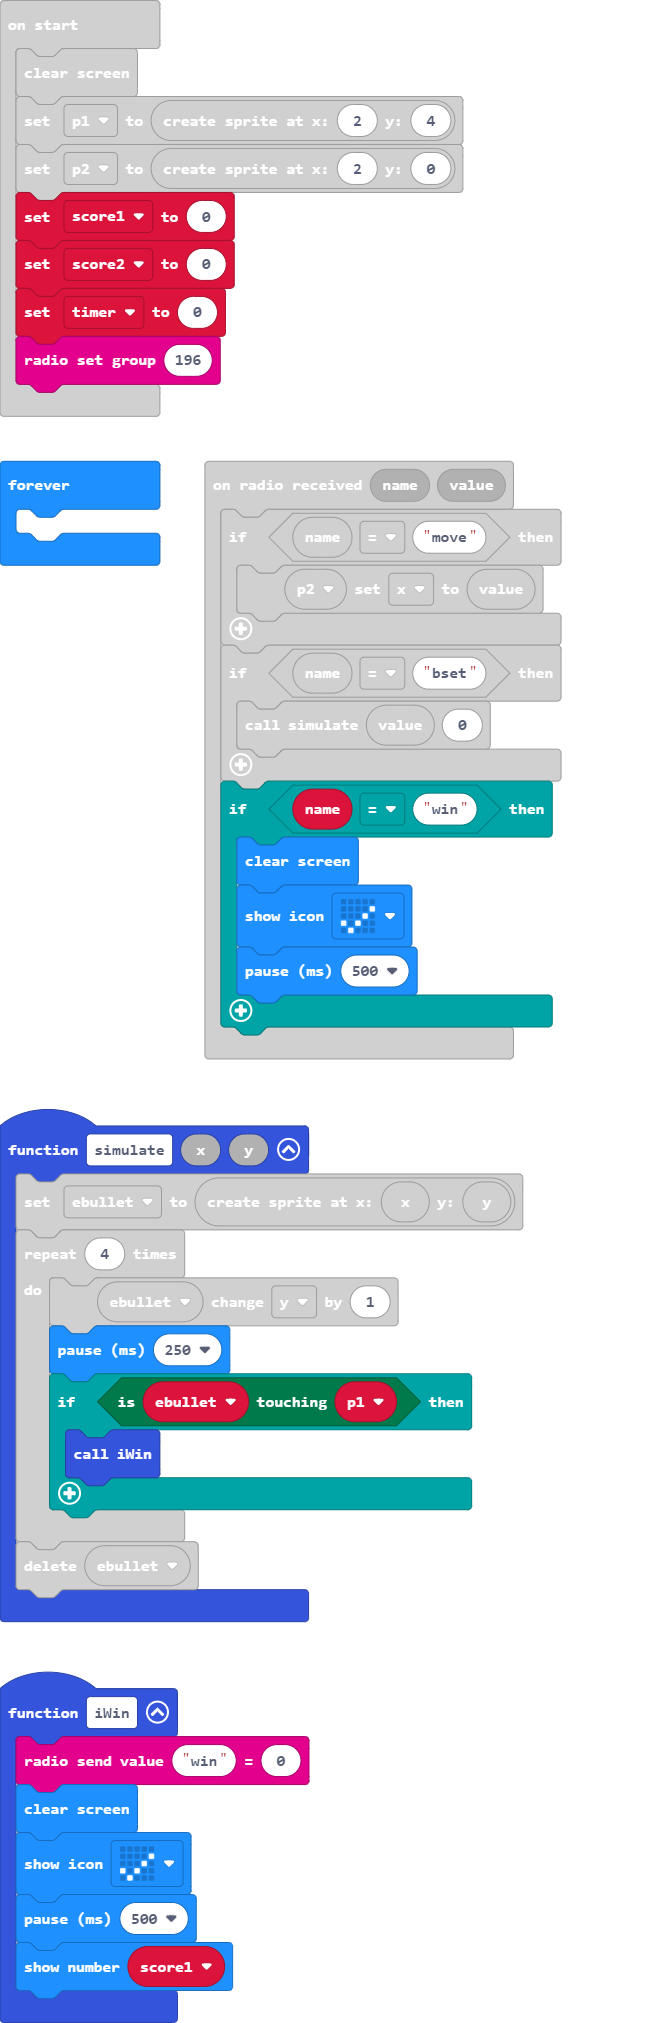
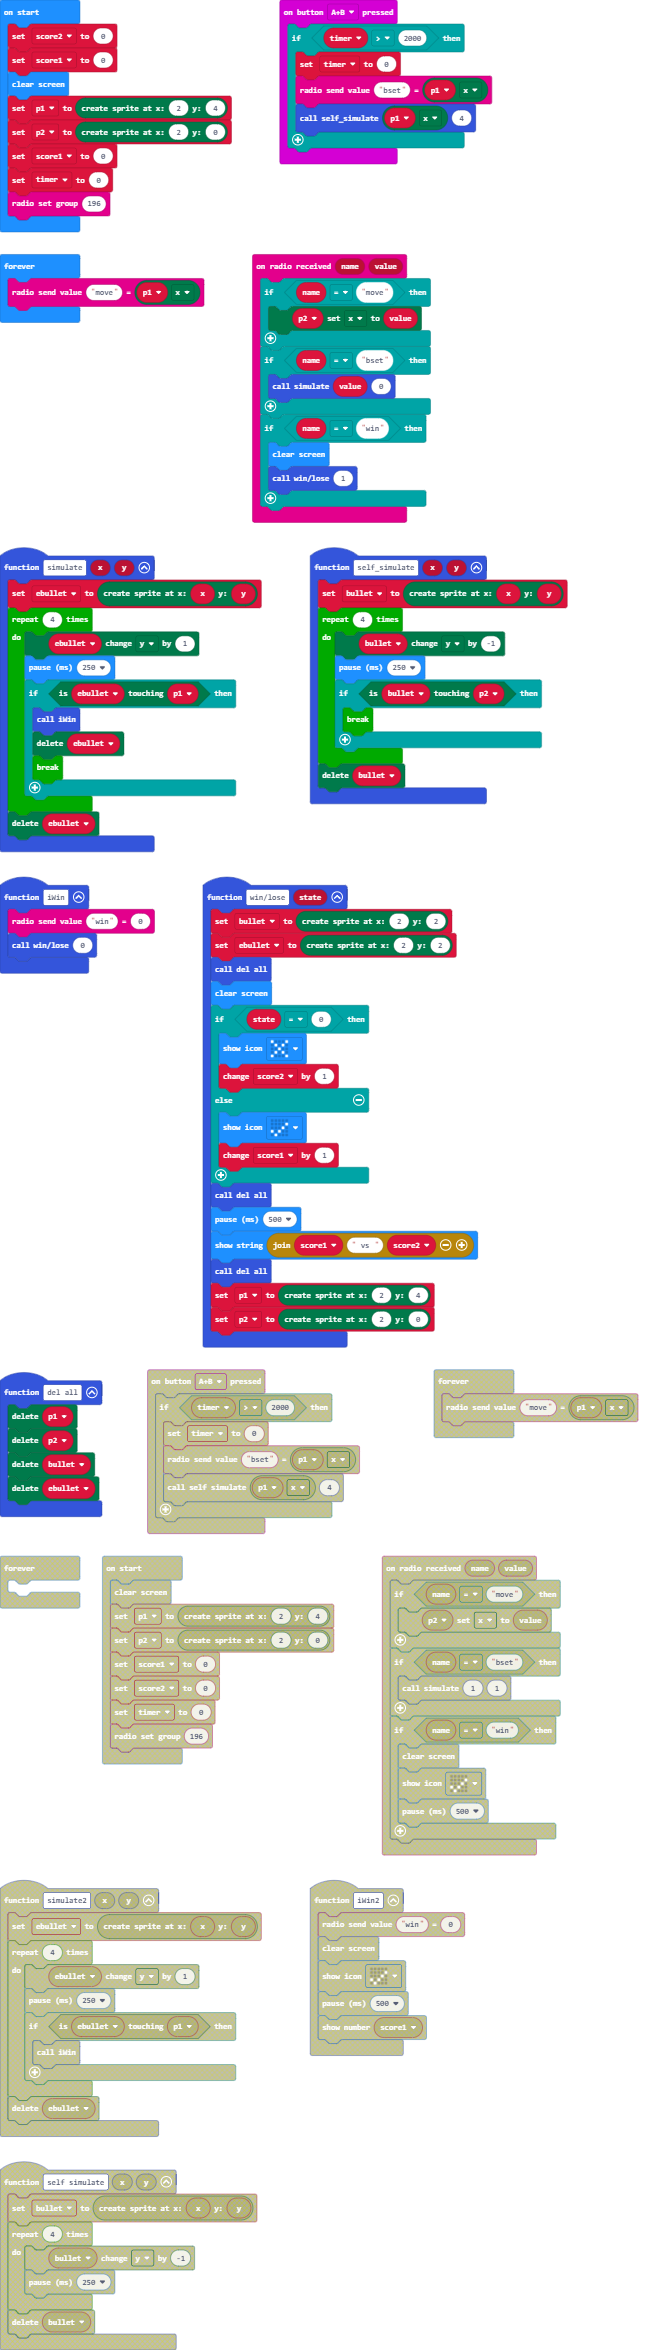
added endscreen (not end)

diff --git a/main.ts b/main.ts
@@ -5,6 +5,8 @@ function simulate (x: number, y: number) {
         basic.pause(250)
         if (ebullet.isTouching(p1)) {
             iWin()
+            ebullet.delete()
+            break;
         }
     }
     ebullet.delete()
@@ -14,13 +16,41 @@ input.onButtonPressed(Button.A, function () {
     p1.ifOnEdgeBounce()
     basic.pause(200)
 })
+function winlose (state: number) {
+    bullet = game.createSprite(2, 2)
+    ebullet = game.createSprite(2, 2)
+    del_all()
+    basic.clearScreen()
+    if (state == 0) {
+        basic.showIcon(IconNames.No)
+        score2 += 1
+    } else {
+        basic.showIcon(IconNames.Yes)
+        score1 += 1
+    }
+    del_all()
+    basic.pause(500)
+    basic.showString("" + score1 + " vs " + score2)
+    del_all()
+    p1 = game.createSprite(2, 4)
+    p2 = game.createSprite(2, 0)
+}
 function self_simulate (x: number, y: number) {
     bullet = game.createSprite(x, y)
     for (let index = 0; index < 4; index++) {
         bullet.change(LedSpriteProperty.Y, -1)
         basic.pause(250)
+        if (bullet.isTouching(p2)) {
+            break;
+        }
     }
     bullet.delete()
+}
+function del_all () {
+    p1.delete()
+    p2.delete()
+    bullet.delete()
+    ebullet.delete()
 }
 input.onButtonPressed(Button.AB, function () {
     if (timer > 2000) {
@@ -43,28 +73,26 @@ radio.onReceivedValue(function (name, value) {
     }
     if (name == "win") {
         basic.clearScreen()
-        basic.showIcon(IconNames.Yes)
-        basic.pause(500)
+        winlose(1)
     }
 })
 function iWin () {
     radio.sendValue("win", 0)
-    basic.clearScreen()
-    basic.showIcon(IconNames.Yes)
-    basic.pause(500)
-    basic.showNumber(score1)
+    winlose(0)
 }
 let bullet: game.LedSprite = null
 let ebullet: game.LedSprite = null
 let timer = 0
-let score1 = 0
 let p2: game.LedSprite = null
 let p1: game.LedSprite = null
+let score1 = 0
+let score2 = 0
+score2 = 0
+score1 = 0
 basic.clearScreen()
 p1 = game.createSprite(2, 4)
 p2 = game.createSprite(2, 0)
 score1 = 0
-let score2 = 0
 timer = 0
 radio.setGroup(196)
 basic.forever(function () {
@@ -73,7 +101,4 @@ basic.forever(function () {
 basic.forever(function () {
     basic.pause(1000)
     timer += 1000
-})
-basic.forever(function () {
-	
 })
